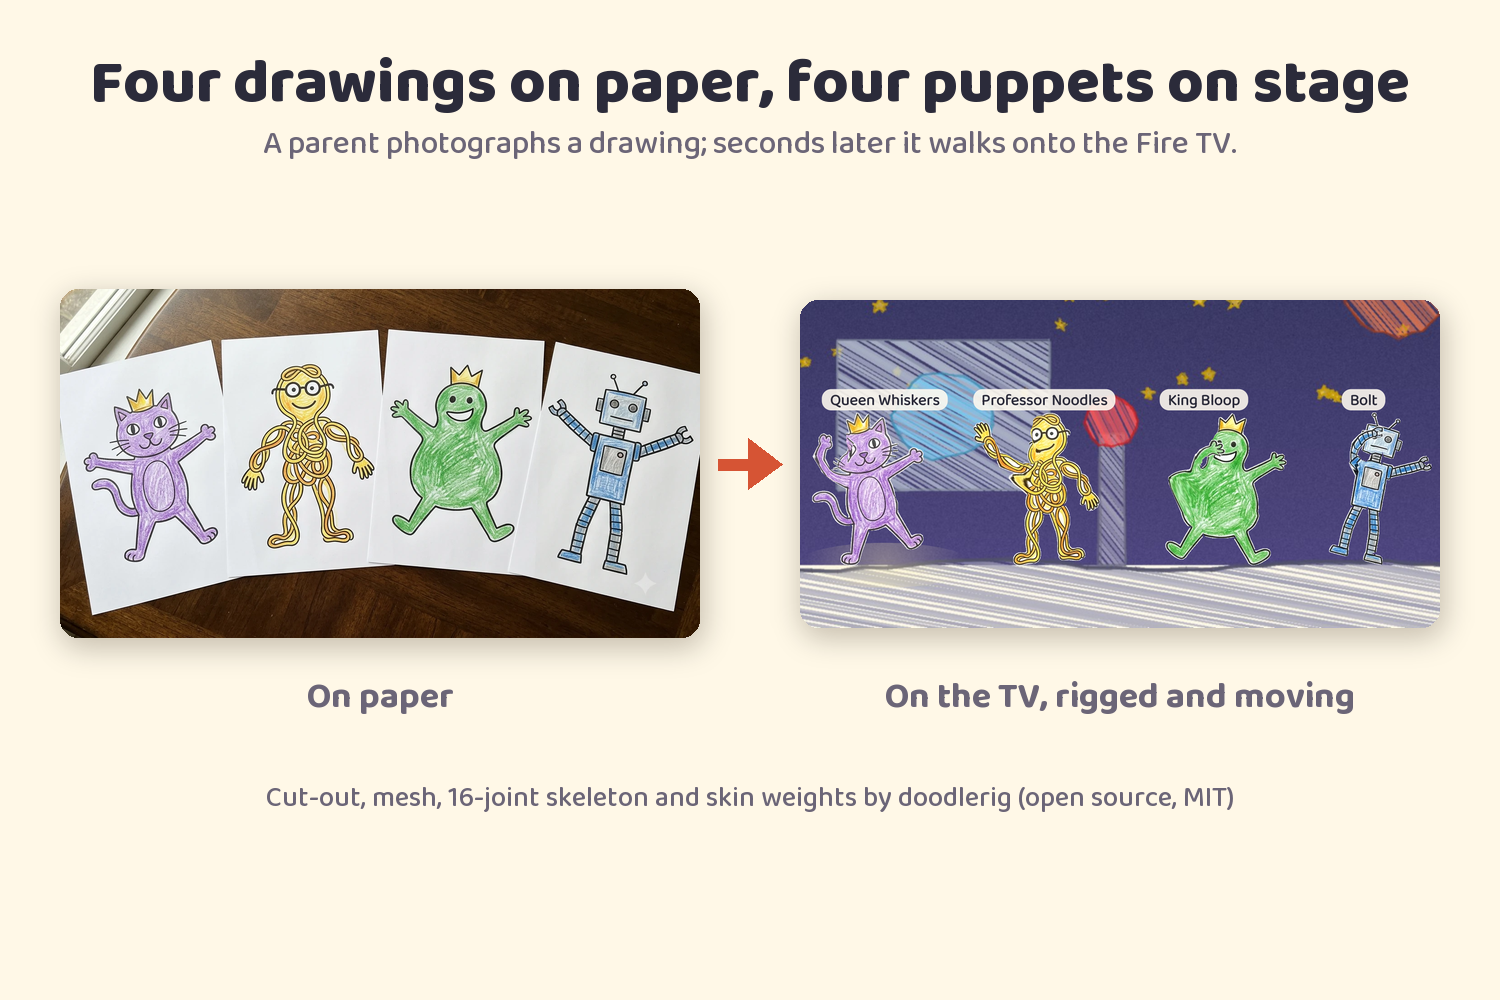
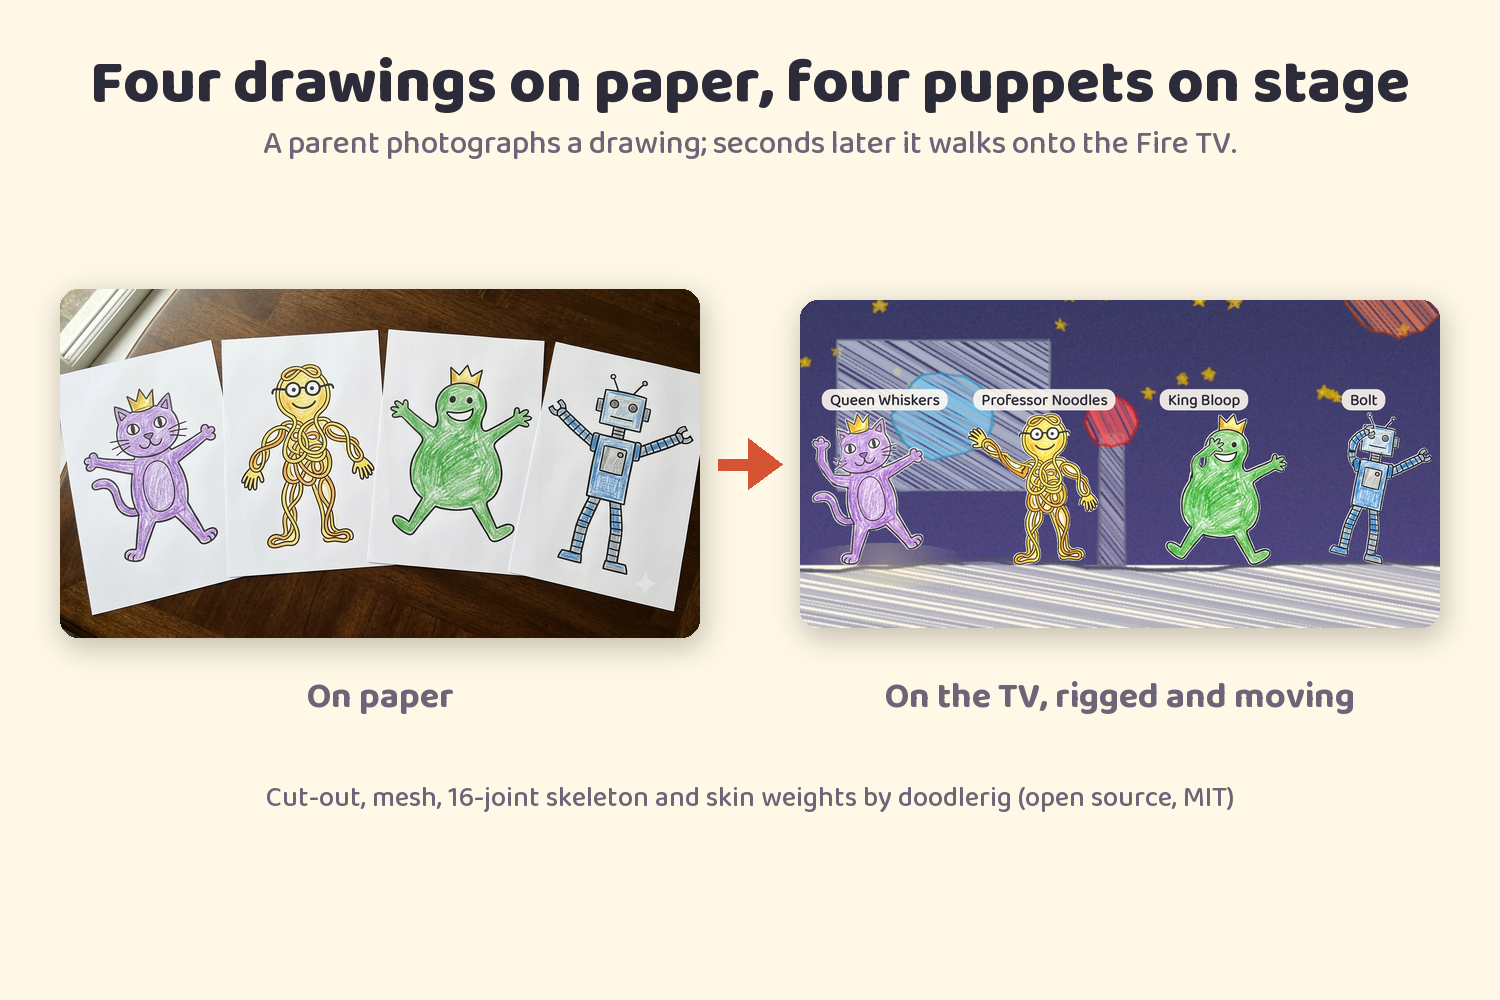
Thumbnail and gallery 1 re-shot with the fixed rigs; YouTube title and description

diff --git a/submission/youtube.md b/submission/youtube.md
@@ -1,0 +1,47 @@
+# YouTube upload
+
+**File:** `submission/final/doodle-theater-demo.mp4` · **Thumbnail:** `submission/images/thumbnail.png`
+**Visibility:** Public (or Unlisted) · **Audience:** "No, it's not made for kids". It's a demo for
+judges and parents, and "made for kids" turns off comments and other features.
+**Category:** Science & Technology
+
+## Title (under 100 characters)
+Doodle Theater: a child's drawing becomes a live puppet on Fire TV
+
+## Description
+
+A child's paper drawing becomes a live puppet on Fire TV and stars in a bedtime story they steer
+with the remote.
+
+How it works:
+• The TV shows a QR code. A parent scans it and photographs the drawing; no app or account needed.
+• Our open-source rigger cuts the drawing out and gives it a mesh, a 16-joint skeleton and skin
+  weights, in about 2 seconds.
+• The puppet walks onto the TV and is animated live at 60 fps. It's not a pre-rendered video.
+• Tonight's story: the cast acts out a short play narrated by Amazon Polly. Words light up as
+  they're read, and the child picks what happens next with the D-pad (picture choices for
+  pre-readers).
+• Made for bedtime: after 7 PM the screen turns warm and dim, narration gets slower and softer,
+  and every story ends with a goodnight to each star. Parents can cap stories per night.
+• "Alexa, pause" works, and so do "Alexa, next / previous" at a story choice.
+
+Built for the Amazon "Build, Ship, Shape" hackathon (Fire TV track).
+
+Code (MIT): https://github.com/biyonjose10/doodle-theater
+
+Built with Kotlin, Jetpack Compose for TV, Python, FastAPI, Amazon Polly, Amazon Bedrock, Strands
+Agents.
+
+Drawings by a neighbour's child (shared with permission), cleaned up with Gemini.
+Voice-over: Amazon Polly (neural voice Ruth). No music.
+
+## Tags
+fire tv, amazon fire tv, kids, bedtime story, drawing animation, puppet, amazon polly, amazon
+bedrock, strands agents, jetpack compose, hackathon, open source
+
+## Before publishing
+- [ ] The thumbnail is the re-shot one (no arm smear on King Bloop).
+- [ ] If Bedrock still isn't working on upload day, it's fine that it's listed under "Built with":
+      the story agent is built on it and the app falls back to templates. Don't claim live AI
+      stories in the description.
+- [ ] Paste the video link into `devpost.md` (`VIDEO_LINK_HERE`).
